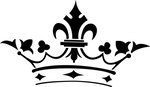
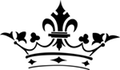
fixed sizing

diff --git a/logic.js b/logic.js
@@ -29,12 +29,7 @@ class App extends React.Component {
         this.nextTask.value = ""
     }
 
-
     markDone(item_done) {
-
-        // var index = this.state.taskList.indexOf(item_done)
-        // var newCompletedTaskList = this.state.completedTasks
-        // newCompletedTaskList.push(this.state.taskList.splice(index, 1));
 
         var index = this.state.taskList.findIndex(i => i == item_done)
         var newCompletedTaskList = this.state.completedTasks
@@ -46,21 +41,6 @@ class App extends React.Component {
             })
         }
     }
-
-    // for (var i = 0; i < this.state.taskList.length; i++) {
-    //     if (this.state.taskList[i] === item_done && i == item_done_val) {
-    //         var newCompletedTaskList = this.state.completedTasks
-    //         newCompletedTaskList.push(this.state.taskList.splice(i, 1));
-    //         i--;
-    //     }
-    // }
-
-    // this.setState({
-    //     taskList: this.state.taskList,
-    //     completedTasks: this.state.completedTasks
-    // })
-
-
 
     markNotDone(item_notDone) {
 
@@ -82,7 +62,6 @@ class App extends React.Component {
             this.setState({
                 completedTasks: this.state.completedTasks,
                 taskList: this.state.taskList,
-
             })
 
         } else if (list === "toDo") {
@@ -91,29 +70,18 @@ class App extends React.Component {
             this.setState({
                 taskList: this.state.taskList,
                 taskList: this.state.taskList,
-
             })
         }
     }
-
-    // var index = this.state.completedTasks[item_notDone]
-
-    // for (var i = 0; i < this.state.completedTasks.length; i++) {
-    //     if (this.state.completedTasks[i] === item_notDone) {
-    //         // var newtaskList = this.state.taskList
-    //         newtaskList.push(this.state.completedTasks.splice(i, 1));
-    //         i--;
-    //     }
-    // }
 
     render() {
         return (
             <div class="application">
                 <div>
                     <Header appName="Sh*t To Get Done" logo="crown" />
-                    <form id="form" onSubmit={this.handleSubmit} >
-                        <input ref={x => this.nextTask = x} placeholder="Add More Sh*t Here" onFocus={this.focus} />
-                        <input type="submit" value="+" disabled={this.state.isEmpty} />
+                    <form id="form" onSubmit={this.handleSubmit} > 
+                        <textarea ref={x => this.nextTask = x} placeholder="add new sh*t" onChange={this.focus} />
+                        <button class="btn-a" type="submit" value="+" disabled={this.state.isEmpty}>+</button>
                     </form>
                     <div><h3>TO DO:</h3></div>
                     <ToDoList taskList={this.state.taskList} handleMarked={this.markDone} remove={this.delete} />
@@ -134,7 +102,7 @@ class Header extends React.Component {
         return (
             <div>
                 <span>{this.props.appName}
-                    <img src={`./img/${this.props.logo}.png`} />
+                    <img src={`./img/${this.props.logo}.png`} id="image"/>
                 </span>
             </div>
         );
@@ -162,6 +130,7 @@ class ToDoList extends React.Component {
     }
 
 
+
     render() {
         return (
             <div>
@@ -184,10 +153,7 @@ class DoneList extends React.Component {
     }
 
     putBack_ToDo(e) {
-
         var item_notDone = e.target.id
-        // var item_notdone_val = e.target.value
-
         this.props.handleUnmarked(item_notDone)
     }
 

diff --git a/style.css b/style.css
@@ -11,25 +11,28 @@ ul {
 
 li.list {
     background-color: rgba(225, 225, 225, 0.6);
-    margin: 1rem;
+    margin: 0.5vw;
     margin-left: 0;
-    padding: 2rem;
-    width: 60vw;
-    font-size: 1rem;
+    padding: 2vw;
+    width: 43vw;
+    font-size: 1vw;
+    word-wrap: break-word;
+    text-align: left;
+
 }
 
 
-h3{
+h3 {
     font-size: 1.5rem;
     background-color: rgba(225, 225, 225, 0.6);
     margin: 1rem;
     margin-left: 0;
-    padding: 2rem;
-    width: 60vw;
+    padding: 1vw;
+    width: 45vw;
     font-weight: 800;
 }
 
-.application{
+.application {
     justify-items: center;
     justify-content: center;
     vertical-align: middle;
@@ -40,41 +43,60 @@ h3{
     font-size: 2rem;
 }
 
-.completed{
-    border: 2px solid red;
+.completed {
+    text-decoration: line-through;
+    text-align: left;
 }
 
-.done{
+.done {
     border: 2px solid black;
 }
 
-.trash{
-    height: 3vw;
-    width: 3vw;
-    display: inline-block;
-    text-align: right;
+.trash {
+    height: 2vw;
+    width: 2vw;
     background-image: url("img/trash.svg");
     background-size: contain;
     background-repeat: no-repeat;
     background-position: center;
     background-color: transparent;
     border: none;
+    float: right;
 }
 
-#form{
+#form {
     display: flex;
-    justify-content: space-evenly;
-    vertical-align: middle;
     padding: 1rem;
     margin-block-end: 0;
-  
 }
 
-input{
+textarea {
     font-size: 1rem;
     font-family: 'Merriweather', serif;
-    line-height: 2rem;
     text-align: center;
-    -ms-text-overflow: inherit;
+    white-space: pre-line;
+    width: 35vw;
+    resize: none;
 }
 
+button[type=submit] {
+    font-size: 4vw;
+    font-family: 'Merriweather', serif;
+    height: 5vw;
+    width: 5vw;
+    line-height: 4vw;
+    text-align: center;
+    vertical-align: middle;
+    background-color: transparent;
+    border: none;
+    padding-left: 5vw;
+}
+
+#image {
+    padding-left: 2vw;
+    padding-top: 4vw;
+}
+
+#image:hover{
+    
+}
